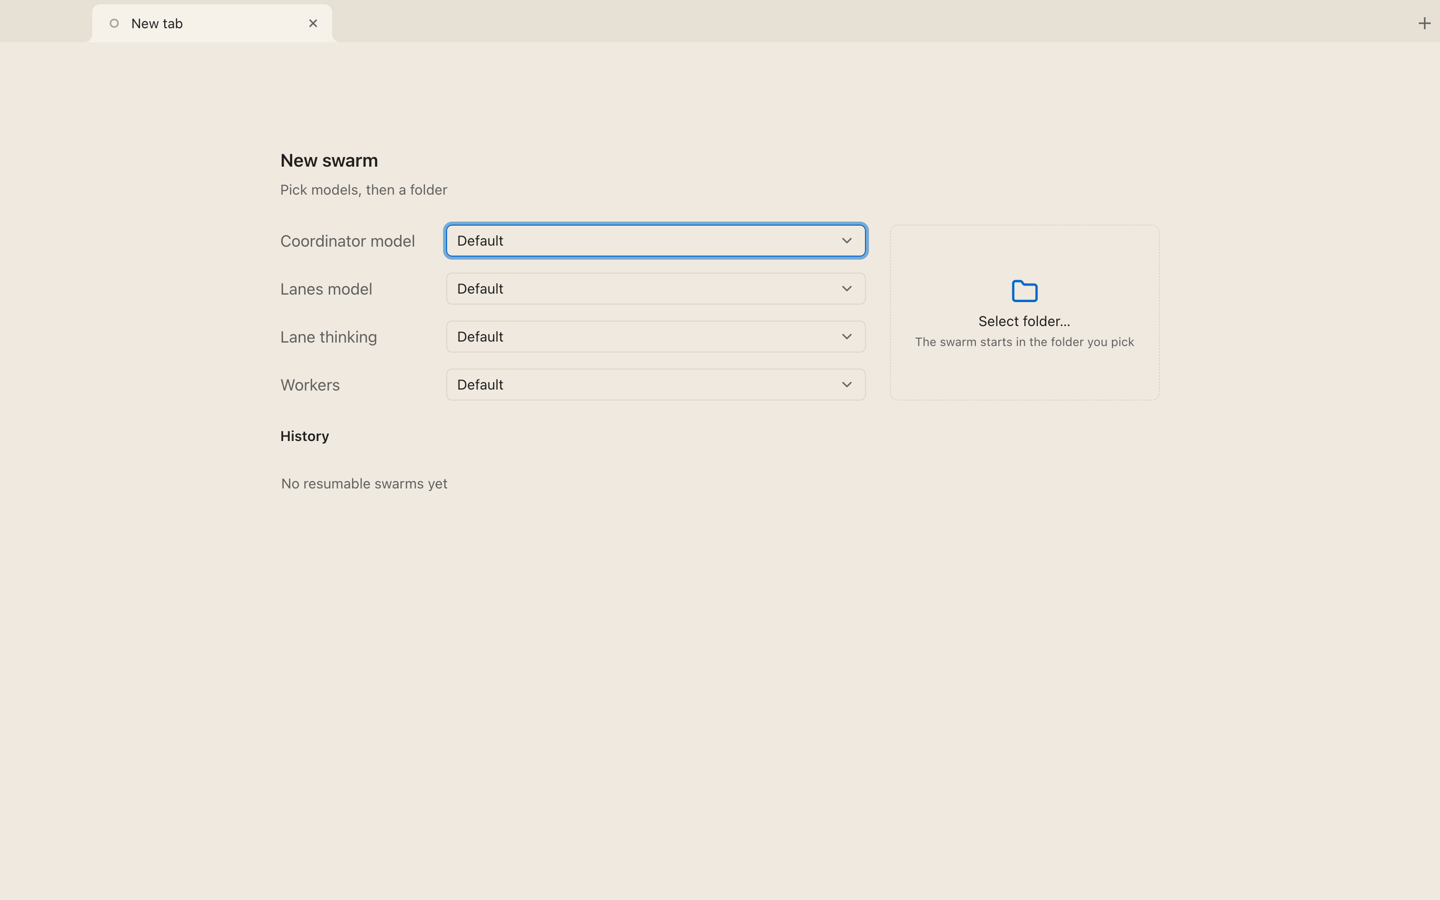
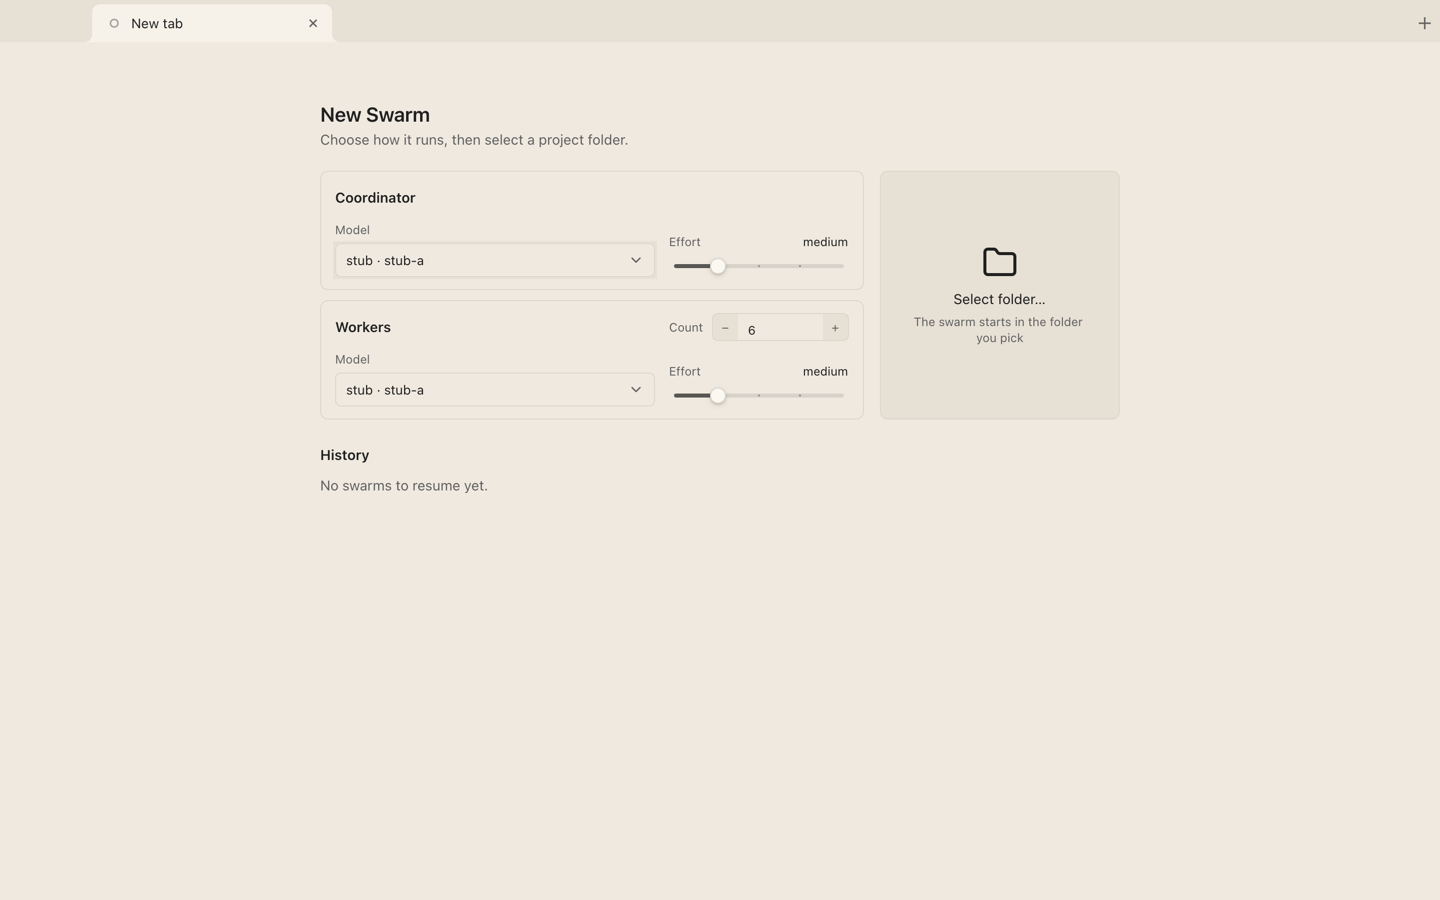
docs: the New Swarm page's pictures and words
The ten captures again, with the design's page in them: 01-empty and
08-check-problem are what this branch changed (the resolved model fields, the
count box, the two sliders, the folder card, the check's own lines under the
cards), 07-history the same page with a resumable swarm in it, and the rest the
same frames re-taken from the merged tree.

`screens.md`'s three rows and `usage.md`'s empty-tab section now describe that
page instead of the four choosers: the two cards and what each control passes,
"nothing here is called Default", the ladder without its retired rung, the
count's clamp, the folder card, the keyboard order, and the history row — title,
the pill, the `~` path, how long ago, the `›` — in a list that scrolls under the
fixed head and cards.

diff --git a/docs/usage.md b/docs/usage.md
@@ -47,7 +47,7 @@ which are the same actions as `⌃⇥`, `⌃⇧⇥` and `⌘9`; `⌘1`…`⌘8` 
 shortcuts.
 
 Switching tabs takes the keyboard with it: the composer of the tab you land on
-gets the caret, and an empty tab hands it to its first chooser — a keystroke
+gets the caret, and an empty tab hands it to its first control — a keystroke
 nobody hears is worse than one the window handles.
 
 ## Tabs
@@ -76,86 +76,101 @@ Two small marks answer questions a label cannot:
 
 ## The empty tab: choosing a swarm
 
-```
-New swarm
-Pick models, then a folder
+Every new tab opens on the New Swarm page (`design/doc28/NewSwarm.tsx`): what the
+launch will be, then the folder to run it in, then what can be resumed.
 
-Coordinator model  [ Default ▾ ]            ┌────────────────────────┐
-Lanes model        [ Default ▾ ]            │  [folder icon]         │
-Workers            [ Default ▾ ]            │  Select folder…        │
-                                            │  The swarm starts in   │
-                                            │  the folder you pick   │
-                                            └────────────────────────┘
-  ⚠ lane_model_not_found: no registration … — fix the lanes model
+```
+New Swarm
+Choose how it runs, then select a project folder.
+
+┌─ Coordinator ──────────────────────────┐   ┌────────────────────────┐
+│ Model                                  │   │   [folder icon]        │
+│ [ aiden · ark-deepseek-v4.1-flash   ▾ ]│   │   Select folder…       │
+│ Effort                          medium │   │   The swarm starts in  │
+│ ──●─────────────────────────────────── │   │   the folder you pick  │
+└────────────────────────────────────────┘   └────────────────────────┘
+┌─ Workers ────────────── Count ── 6 ─+ ─┐
+│ Model                                  │
+│ [ anthropic · claude-opus-4.5       ▾ ]│
+│ Effort                          medium │
+│ ──●─────────────────────────────────── │
+└────────────────────────────────────────┘
+  ⚠ config.file: no registration for … — fix it in Settings…
 
 History  6 resumable
-  evo-gui  [open at last quit]
-           ~/coding/evo-gui · 6 lanes · 11m ago · coordinator: ark-…
-  foo      ~/coding/foo     · 4 lanes · 2h ago  · coordinator: …
+┌───────────────────────────────────────────────────────────────────────┐
+│ 📁 evo-gui  [open at last quit]                                    ›  │
+│    ~/coding/evo-gui · 11m ago                                         │
+└───────────────────────────────────────────────────────────────────────┘
 ```
 
-- **Coordinator model** — passed to the swarm as `--model ID@PROVIDER`. On
-  **Default** (`evo's own default`) nothing is passed and evo's own default
-  applies. The menu lists the models the catalog knows, sorted by provider then
-  id, each with a detail line — `200k ctx · vision · reasons`. A model
-  registered under several providers is listed per registration, and the option
-  carries the `id@provider` the flag will be given.
-- **Lanes model** — passed as `--lane-model ID@PROVIDER`, which is what the
-  lanes register. On **Default** (`follows the coordinator`) nothing is passed
-  and every lane inherits the coordinator's model. The list is the same catalog
-  filtered by `/catalog.lanes.models`: a model a lane could not register is
-  greyed with evo's own reason beside it. The app writes no project file — the
-  lanes' model is a launch flag, and `<folder>/.evo/swarm.lisp` stays yours.
-- **Lanes thinking** — `--lane-thinking`, the effort the lanes start at; Default
-  follows the coordinator's.
-- **Workers** — `--workers`, 1–64. On **Default** evo's own `:swarm-workers`
-  setting decides (else 6). Only a swarm created from a folder takes this count:
-  a resumed swarm keeps the lane count its own record kept.
+**Nothing here is called "Default".** Every control opens on what evo would run
+*now*, and what it shows is exactly what the launch passes — so a page that shows
+a model is a launch that runs it:
+
+- **Coordinator — Model** is `--model ID@PROVIDER`: what `evo-swarm check --json`
+  resolved, else `/catalog.default_model`, else the first registration the
+  catalog says is `ready`. The menu lists every registration, `provider · id`,
+  each with a detail line — `200k ctx · vision · reasons` — and a registration
+  evo cannot reach is greyed with evo's own reason.
+- **Coordinator — Effort** is `--thinking`, and **Workers — Effort** is
+  `--lane-thinking`: the rungs `/catalog.thinking_levels` lists, without `off`
+  (evo retired that rung, and `--thinking` refuses it). Both open on the middle
+  rung; click, drag or use the arrows, and the level's name is beside the label.
+- **Workers — Count** is `--workers`, 1–64. Typing clamps to the range — `0`,
+  `99` or a word lands on the nearest count — and `−`/`+` step one at a time. It
+  opens on evo-swarm's own 6, which is what it starts with when neither
+  `--workers` nor the `swarm-workers` setting says otherwise.
+- **Workers — Model** is `--lane-model`: what `check` resolved for a lane, else
+  the default when a lane can register it, else the first registration a lane
+  can. The list is the same catalog judged by `/catalog.lanes.models` — a model a
+  lane could not register is greyed with evo's reason beside it. The app writes
+  no project file: the lanes' model is a launch flag, and
+  `<folder>/.evo/swarm.lisp` stays yours.
 - **Select folder…** — the native folder dialog. Picking a folder starts the
   swarm there and turns the tab into a tab page; cancelling leaves the tab empty.
 
-Under the choosers, one caption carries what has something to say: `Loading
-models…` until the catalog is known; `Couldn't load the model list — Default
-models will be used.` (or `Couldn't refresh the model list — using the last one
-it loaded.` when a cached catalog is already in the choosers), with evo's own
-error in the hover; and, when `evo-swarm check --json` judges the launch the
-choosers describe, one calm line per problem — the lanes model that is not
-registered, a missing key, a worker count evo refuses. A problem line is
-clickable: it opens the chooser it is about, or Settings when it is about the
-machine. The check runs again on every chooser change, so these lines describe
-what **Select folder…** would actually start.
+Under the cards, one calm line each: what `evo-swarm check --json` found wrong
+with the launch the controls describe — a model evo cannot reach, a lane that
+cannot register one, a missing key — and, when the catalog itself could not be
+read, what the page does without it. A line is clickable: it puts the keyboard on
+the control it is about, or opens Settings when it is about the machine (the
+binary that is not there). The check runs again on every model change, so these
+lines describe what **Select folder…** would actually start.
 
 The tab's models are fixed when the swarm starts — the tab page has no model
 selector, only the readout that shows what is running.
 
 ### Keyboard on the empty tab
 
-Tab moves the keyboard between the three choosers, the folder drop target and the
-history list (the target and the history frame draw a hairline focus ring while
-they hold it). A chooser opens with `Enter`, `Space` or an arrow; the arrows walk
-its options, `Enter` picks, `Esc` closes it without leaving the tab (and without
-choosing). The history frame takes the arrows and `Home`/`End`; `Enter` resumes
-the selected row, the same as clicking it.
+Tab walks the page in the order it is read: the Coordinator's model field and
+effort slider, the Workers' count, model and slider, the folder card, then the
+history rows. The two model fields open with `Enter`, `Space` or an arrow, the
+arrows walk the options, `Enter` picks, `Esc` closes the menu without leaving the
+tab; the count box takes digits; a slider takes the arrows, `Home` and `End`; the
+folder card and every history row are buttons, so `Enter` is what a click is.
+A focused model field or count box draws the design's ring — a primary border
+with a 2px muted halo — and a focused slider rings its thumb.
 
 ### History
 
 The history lists every resumable swarm `evo-agent sessions --json` reports —
 any folder, not only the ones this app started — merged with the app's own recent
 sessions, newest first. The app reads no journal: evo keeps an index and prints
-it. A row leads with the session's own title (its first user text) and the
-folder's name under it, then what is known about the session, joined by `·` —
-the lanes, how long ago, the coordinator's model (`4 lanes · 2h ago ·
-coordinator: ark-deepseek-v4.1-flash`); each part is left out when it is unknown.
-A session the app had open when it last quit wears an `open at last quit` pill.
-Hovering shows the full path, the journal's name, the absolute time, and the
-models.
+it. A row leads with the session's own title (its first user text) and, under it,
+the `~`-shortened folder with how long ago it ran, joined by `·`; a session the
+app had open when it last quit wears an `open at last quit` pill beside its
+title, and the `›` at the row's end says what a click does. Hovering shows the
+full path, the journal's name, the absolute time, the models and the lane count.
 
-Click a row (or select it and press `Enter`) to open it as a new tab: the swarm
-resumes that session (`--resume <that exact journal>`) in the folder it ran in,
-so two tabs in one folder can never cross sessions. The list has three quiet
-states of its own: `Scanning sessions…` while the index is being read, `No
-resumable swarms yet`, and the read's error in the danger colour. The calm one is
-what a first run shows: there is nothing to resume yet, which is not a failure.
+Click a row (or press `Enter` while it has the keyboard) to open it as a new tab:
+the swarm resumes that session (`--resume <that exact journal>`) in the folder it
+ran in, so two tabs in one folder can never cross sessions. The list scrolls
+inside the height that is left, under the fixed head and cards; and it has three
+quiet states of its own: `Looking for sessions…` while the index is read, `No
+swarms to resume yet.`, and the read's error in words. The calm one is what a
+first run shows: there is nothing to resume yet, which is not a failure.
+
 
 ## The tab page
 
@@ -358,14 +373,14 @@ The app keeps its own data in `~/.evo/desktop/`:
 |---|---|
 | `app.json` | window bounds, the recorded tab set, binary paths, recent sessions, theme |
 | `lock`, `activate.sock` | the single-instance lock and its activation socket |
-| `model-cache.json` | the last `catalog --json` body, for the empty tab's choosers |
+| `model-cache.json` | the last `catalog --json` body, for the New Swarm page's controls |
 | `tabs/<id>/ready.json` | where the server publishes its port, URL and bearer token (0600) |
 | `tabs/<id>/swarm.log` | the swarm's stdout and stderr |
 | `app.log` | the app's own log, one line per event, each with a UTC timestamp |
 
 The token in `ready.json` is never logged and never shown. Nothing else is
 written: the app reads no journal and edits no project file. What it shows comes
-from evo itself — `evo-swarm catalog --json` for the choosers (at startup, and
+from evo itself — `evo-swarm catalog --json` for the controls (at startup, and
 again whenever the binaries change), `evo-agent sessions --json` for the history
 list, `evo-swarm check --json` for the problem lines, and the running swarm for
 everything on the tab page. Model names are never hardcoded.

diff --git a/docs/screens.md b/docs/screens.md
@@ -30,14 +30,14 @@ call one tool, `SLOW …` makes it answer in sixty deltas over six seconds.
 
 | | |
 |---|---|
-| `01-empty-*` | The window as the app opens it: one empty tab, the four choosers, the folder drop target, and the history — empty, and saying so. The caption says every lane runs the one model the stub home registers. |
+| `01-empty-*` | The window as the app opens it: the New Swarm page (`design/doc28/NewSwarm.tsx`) — the Coordinator card (model and effort), the Workers card (count, model, effort) and the folder card beside them, with the history under them, empty and saying so. Every control opens on what evo resolved, so the two model fields read `stub · stub-a` (the one registration the stub home has) and the effort sliders sit on the catalog's middle rung. |
 | `02-lanes-working-*` | Six lanes, one of them given work: the left column reads `6 lanes · 1 busy`, `main` is waiting on its lanes, lane 1 is working with its step clock running and its own **Stop**, and the coordinator's turn — the `delegate` call and the tool's answer — is in the transcript. The button reads **■ Stop swarm**. |
 | `03-lane-transcript-*` | Lane 1 selected: the centre column is *that lane's* transcript — the `todo` call it was told to make, its result, and the lane's own checklist at the foot. Input still goes to the coordinator. |
 | `04-tool-*` | A tool row, opened: `bash`'s arguments and its result as rows, with the exit status. The row is opened by clicking its own header, and a truncated result is fetched whole with `GET /items/<id>`. |
 | `05-queued-*` | A prompt typed while the coordinator works: the card says `queued · sent at the next step` and carries a **Cancel**, the answer above it is still being written, and the button is still **Stop swarm** — the face follows the swarm being busy, not the composer's draft. |
 | `06-report-*` | What a lane's report looks like when it arrives: the `Lane 1 report` card with the fields the lane sent (`done`, `evidence`, `next`), which is the item a client renders instead of reading `[lane 1 report]` out of a sentence. Above it, the notice the swarm published for the same report — today labelled `command`, because the swarm's own notice goes out through the serve's command channel (`source: "command"`), which is what a client is told. |
-| `07-history-*` | A second tab in the same window, after that session: the empty tab again, with the resumable swarm in the history list under the choosers — its title, its folder, how long ago. |
-| `08-check-problem-*` | The empty tab when the binary `app.json` names cannot be run: the catalog caption (`Couldn't load the model list — Default models will be used.`) and, under the choosers, the check's own line — `/nonexistent/evo-swarm could not be run — fix it in Settings…` — which is what a click on it opens. This is also the window that shows a history row with a real title. |
+| `07-history-*` | A second tab in the same window, after that session: the New Swarm page again, with the resumable swarm in the history list under the cards — its glyph, its title, its `~`-shortened folder, how long ago, and the `›` that says a click resumes it. |
+| `08-check-problem-*` | The New Swarm page when the binary `app.json` names cannot be run: both model fields say `No models are registered` in evo's own words, and under the cards are the check's own two lines — `/nonexistent/evo-swarm could not be run — fix it in Settings…` and the catalog's — each one line, calm, and a click on the first opens Settings. This is also the window that shows a history row with a real title. |
 | `10-tabs-*` | The tab strip with four tabs, the first of them working and the second under the pointer: the design's own subject (`design/doc28/TabStrip.tsx`). The shown tab carries the page's surface and the outward corner at each end, the pointed-at one its own fill, the last two keep the strip's own colour — and the divider rule is visible: none beside the shown tab or the pointed-at one, one between the last two. Taken where the swarm is at work, so the working tab's dot is mid-breath. |
 | `09-boot-failure-*` | The same binary, launched in a folder: *Could not start a swarm*, the folder it could not start in, the engine's one-line reason, the empty log box, and **Retry** / **Close** (§9.7). |
 
